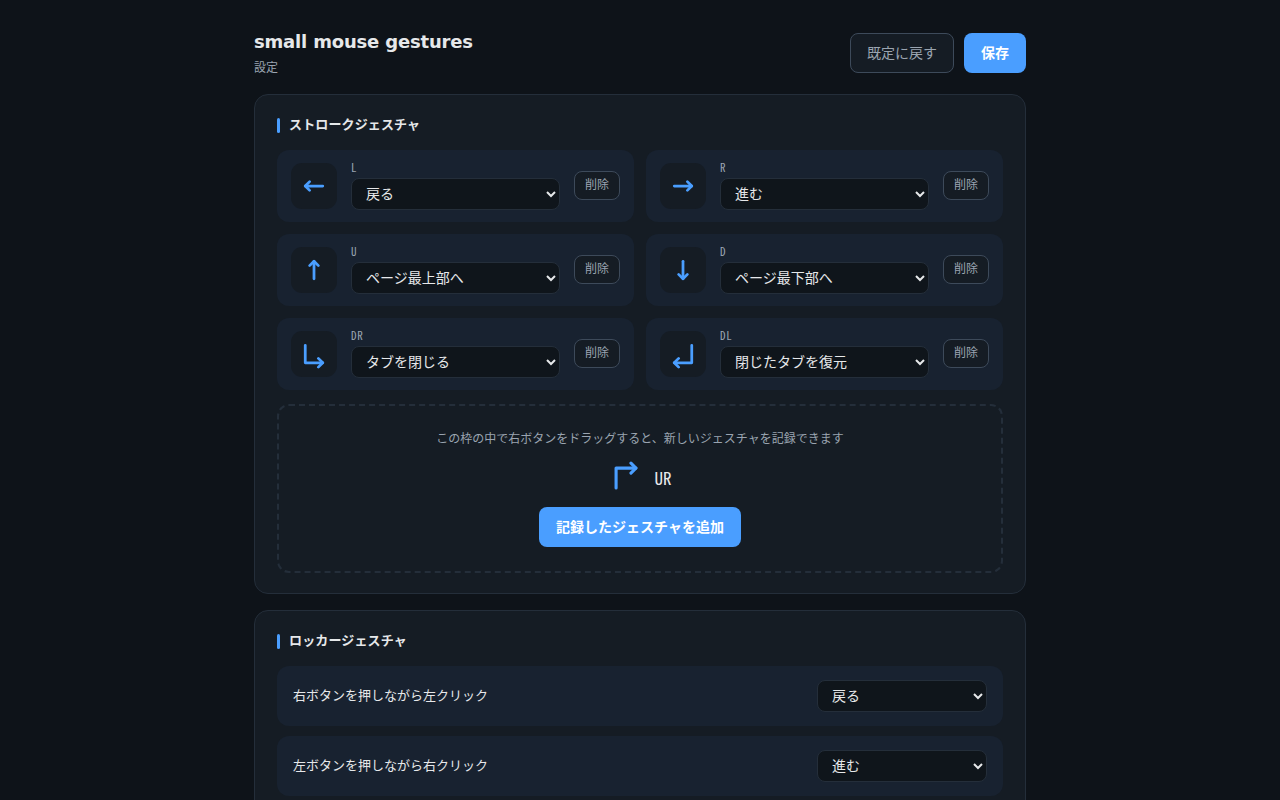
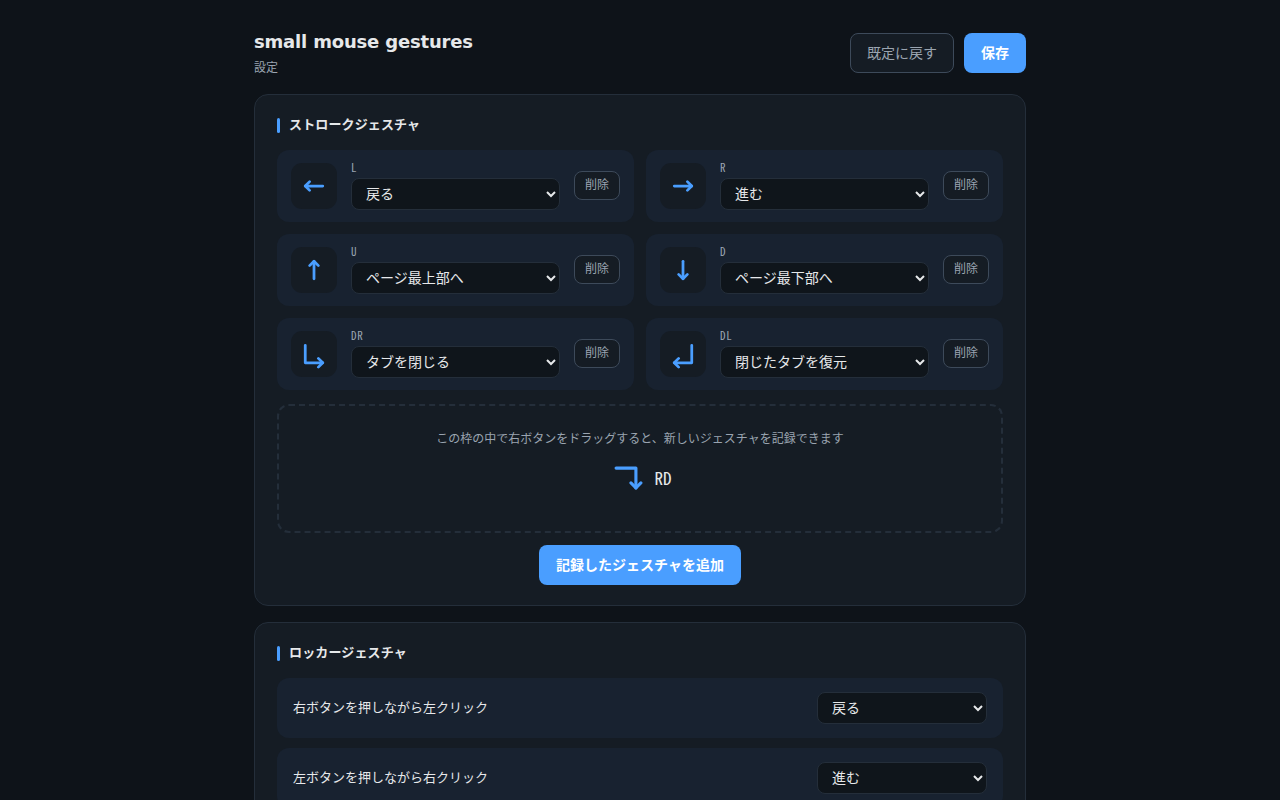
fix: 記録枠の中央から描き始めても記録が始まらない不具合を修正
「記録したジェスチャを追加」ボタンが破線の枠の中央下を占めており、
無効化された状態でその上から右ドラッグを始めると記録が始まらなかった。
Chrome では無効なボタンはマウスイベントを発火せず、親にも伝わらないため。

利用者は枠の中央あたりから描き始めるのが自然なので、そこそこの頻度で
踏むうえ、「無反応」という一番分かりにくい壊れ方をする。

ボタンを枠の外へ出し、枠を描画専用の面にした。「描く場所」と「押す場所」
を分けたので、同じ取り違えが起きない。副次的に枠の高さが縮み、
何も記録していないときの間延びも解消する。

実ブラウザで、枠のちょうど中央を起点にした右ドラッグが記録されること
（RD として認識され追加ボタンが有効になること）を確認済み。
レイアウト変更に伴いスクリーンショットも撮り直した。

diff --git a/src/options/options.html b/src/options/options.html
@@ -26,10 +26,10 @@
         <div id="record-area" class="record">
           <p class="record-hint">この枠の中で右ボタンをドラッグすると、新しいジェスチャを記録できます</p>
           <p id="record-result" class="record-result"></p>
-          <button id="add-recorded" class="button button-primary" type="button" disabled>
-            記録したジェスチャを追加
-          </button>
         </div>
+        <button id="add-recorded" class="button button-primary record-add" type="button" disabled>
+          記録したジェスチャを追加
+        </button>
       </section>
 
       <section class="card">

diff --git a/src/options/options.css b/src/options/options.css
@@ -191,6 +191,16 @@ body {
   color: var(--accent);
 }
 
+/*
+ * 追加ボタンは記録枠の外に置く。枠の中に置くと、無効化されたボタンが
+ * 描画領域の一部を覆い、そこを起点にしたドラッグが記録されない
+ * （Chrome では無効なボタンはマウスイベントを発火せず、親にも伝わらない）。
+ */
+.record-add {
+  display: block;
+  margin: 12px auto 0;
+}
+
 .record-result code {
   font: 17px/1 ui-monospace, SFMono-Regular, Menlo, monospace;
 }

diff --git a/test/manual-checklist.md b/test/manual-checklist.md
@@ -59,6 +59,7 @@
 - [ ] 記録枠で新しいジェスチャを記録して追加できる
 - [ ] 既存ジェスチャと同じものは記録しても追加できない
 - [ ] 「既定に戻す」で初期状態に戻る
+- [ ] 記録枠の中央あたりから右ドラッグを始める → 記録が始まる（追加ボタンが領域を覆っていない）
 - [ ] 記録枠で右ドラッグを始め、枠の外まで大きく描いてから離す → 記録が正しく終わり、「記録中…」のまま固まらない
 - [ ] 上記の直後、右クリックメニューが出ない
 - [ ] 設定画面で普通に右クリック（記録していないとき）→ 通常のコンテキストメニューが出る（抑止フラグが残っていない）
